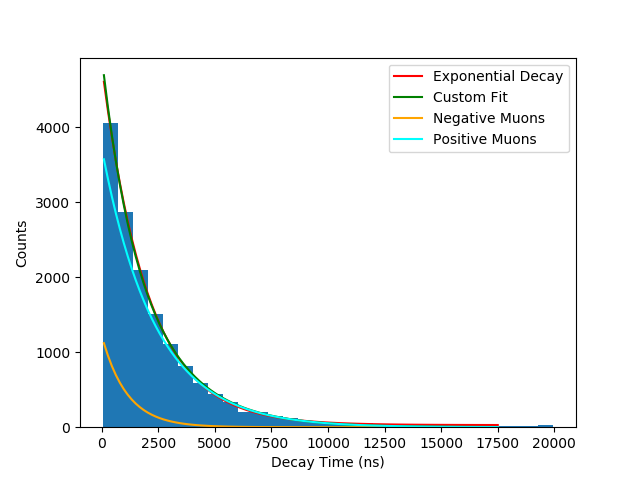
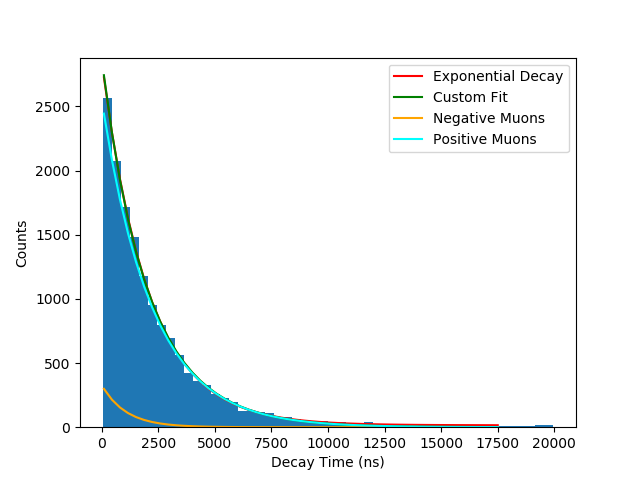
did a bunch of stuff

diff --git a/muon.py b/muon.py
@@ -28,7 +28,7 @@ def neg_muons(t,A_neg,tau_0,tau_c,A_pos,C):
 def pos_muons(t,A_neg,tau_0,tau_c,A_pos,C):
 	return A_pos*np.exp(-t/tau_0)
 
-counts, bin_edges, _ = plt.hist(data,bins=30)
+counts, bin_edges, _ = plt.hist(data,bins=50)
 time = []
 for i in range(len(bin_edges)-1):
 	time.append((bin_edges[i]+bin_edges[i+1])/2.)
@@ -38,10 +38,10 @@ popt_custom, pcov_custom = curve_fit(custom_fit,
 					counts, 
 					p0=(15, popt_exp[1], 2043, popt_exp[0]/2, popt_exp[2]),
 					bounds=(
-						(0, 0, 1900, 0, -np.inf), 
-						(np.inf, np.inf, 2100, np.inf, np.inf)))
+						(0, 2000, 2033, 0, -np.inf), 
+						(np.inf, 2400, 2053, np.inf, np.inf)))
 
-x_fit = np.linspace(100, 17500, 100)
+x_fit = np.linspace(100, 17500, 50)
 y_exp_fit = exponential_decay(x_fit, *popt_exp)
 y_custom_fit = custom_fit(x_fit, *popt_custom)
 y_neg_muons = neg_muons(x_fit, *popt_custom)
@@ -58,11 +58,11 @@ plt.savefig("Plots/"+data_name+".png")
 
 perr_exp = np.sqrt(np.diag(pcov_exp))
 perr_custom = np.sqrt(np.diag(pcov_custom))
-print("Fitted histogram with N_0*exp(-t/tau)+delta")
+print("Fitted histogram with N_0*exp(-t/tau) + delta")
 print("N_0 = "+str(popt_exp[0])+"	Error in N_0: "+str(perr_exp[0]))
 print("tau = "+str(popt_exp[1])+"     Error in tau: "+str(perr_exp[1]))
 print("delta = "+str(popt_exp[2])+"     Error in delta: "+str(perr_exp[2]))
-print("\nFitted histogram with A_neg*np.exp(-t*(1/tau_0+1/tau_c))+A_pos*np.exp(-t/tau_0)")
+print("\nFitted histogram with A_neg*np.exp(-t*(1/tau_0+1/tau_c)) + A_pos*np.exp(-t/tau_0) + C")
 print("A_neg = "+str(popt_custom[0])+"	Error in A_neg: "+str(perr_custom[0]))
 print("tau_0 = "+str(popt_custom[1])+"     Error in tau_0: "+str(perr_custom[1]))
 print("tau_c = "+str(popt_custom[2])+"     Error in tau_c: "+str(perr_custom[2]))

diff --git a/question_13.py b/question_13.py
@@ -1,0 +1,30 @@
+import sys
+import matplotlib.pyplot as plt
+from scipy import stats
+import numpy as np
+from scipy.optimize import curve_fit
+from pull_data import pull_data
+
+"""
+data = []
+with open("data.txt","r") as f:
+	data = f.readline().split(" ")
+
+"""
+data = pull_data()[0]
+print("length of data: " + str(len(data)))
+
+n=0
+tau_0 = 2213.095735211033
+averages = []
+while 50*(n+1) < len(data):
+	average_successes = 0
+	for i in data[(50*int(n)):(50*int(n+1))]:
+		if i < tau_0:
+			average_successes += 1
+	averages.append(average_successes)
+	n += 1
+print(averages)	
+print(np.sum(averages)/len(averages))
+plt.hist(averages,bins=[15, 16, 17, 18, 19, 20, 21, 22, 23, 24, 25, 26, 27, 28, 29, 30, 31, 32, 33, 34, 35, 36, 37, 38, 39, 40, 41])
+plt.show()
